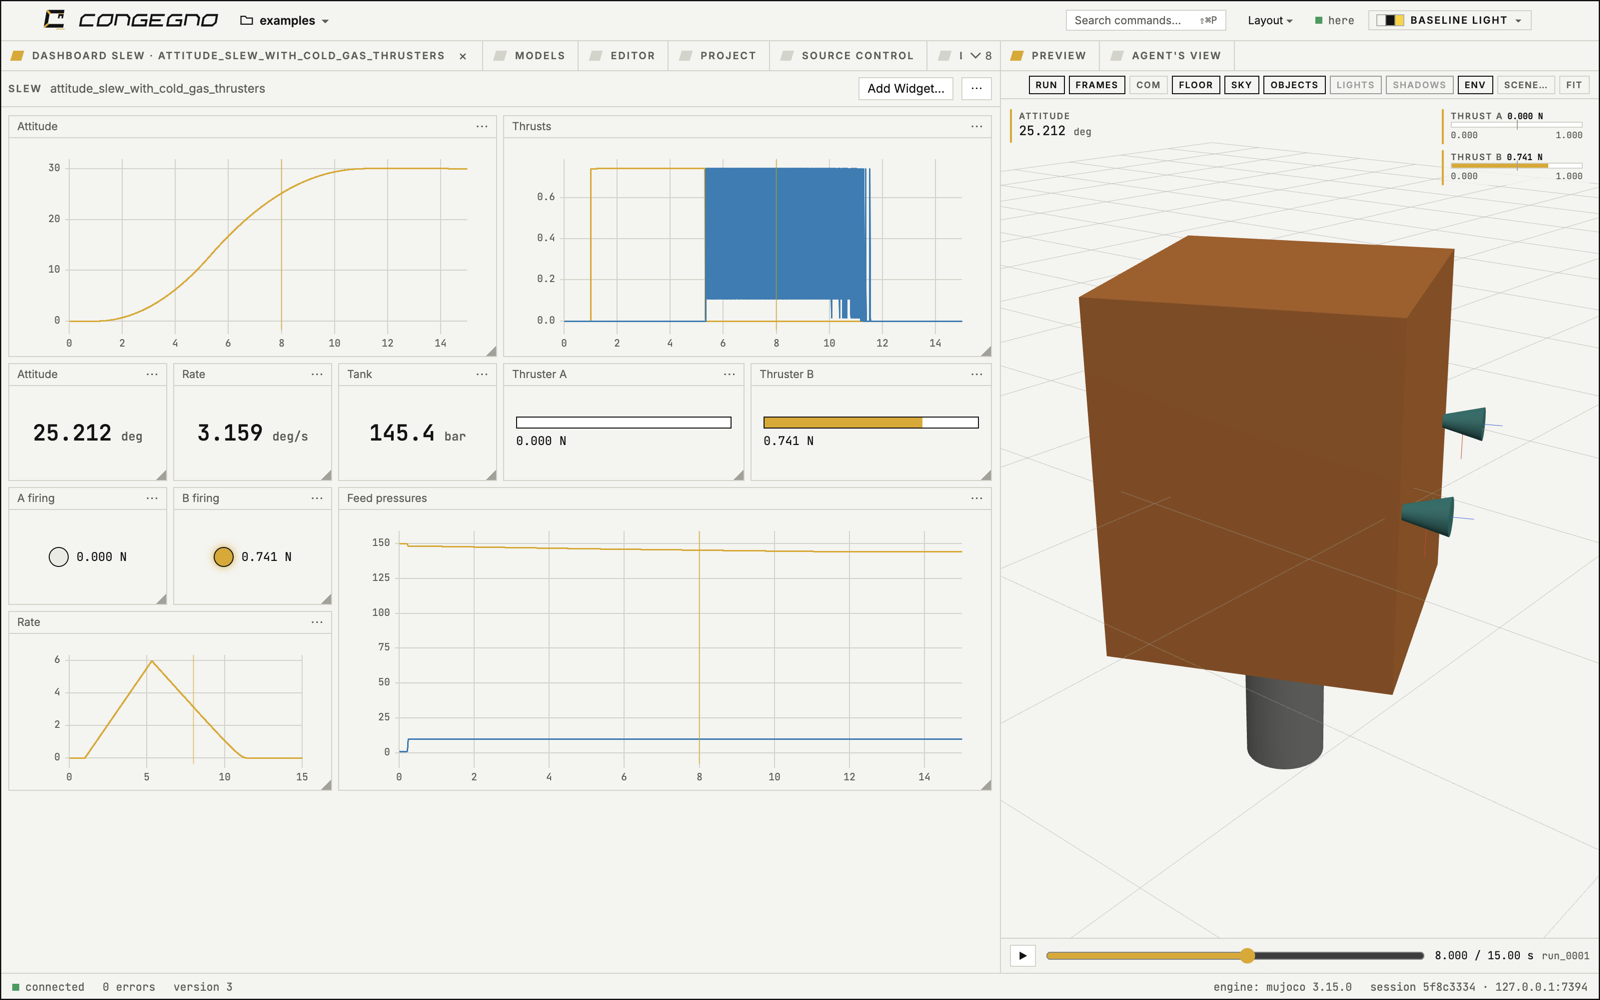
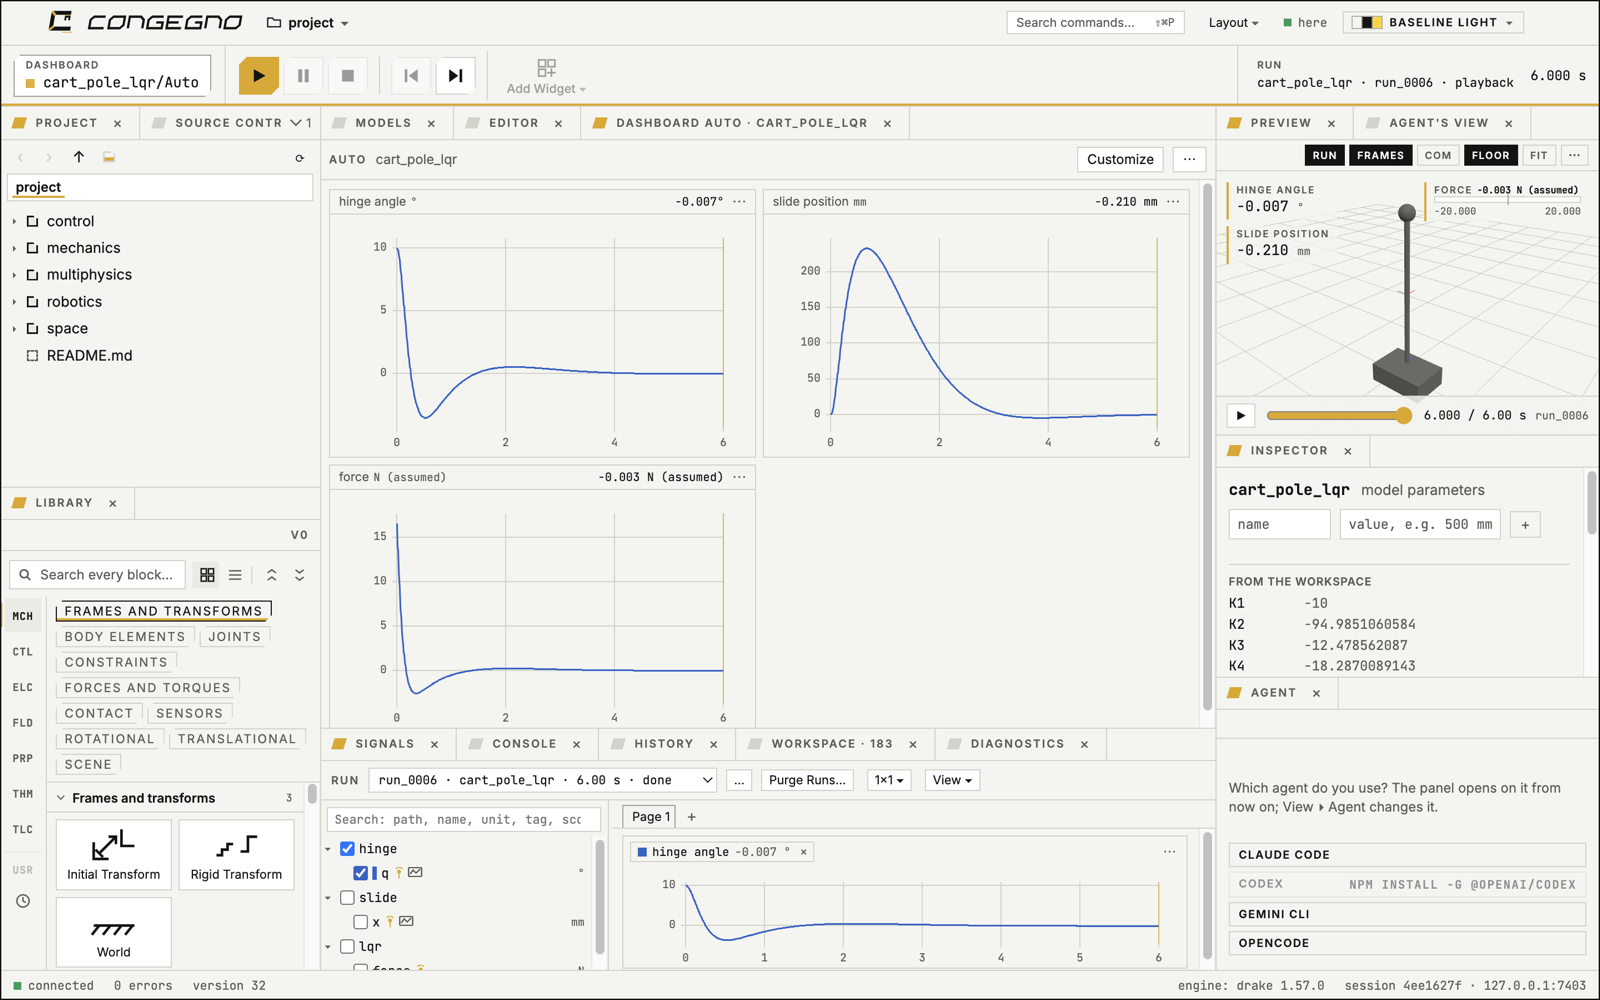
The public preview: the README for everyone (what Congegno is, real pictures of the app, platforms, requirements, the two-step macOS install and the AppImage, the licence in short, how to report a problem), and LICENSE.md the Congegno Preview Licence

diff --git a/README.md b/README.md
@@ -1,81 +1,135 @@
 # Congegno
 
-**Build the machine. Wire the control. Press Run.**
+**Many natures, one environment.**
 
-Congegno is a desktop IDE for simulating machines and their control, all drawn as blocks. Mechanisms, controllers,
-circuits, gas networks and heat run together: the mechanism on Drake or MuJoCo, every physical network compiled by
-OpenModelica, the control diagram compiled to native code.
+Congegno is a desktop application to draw and simulate machines together with their control. Block diagrams,
+multibody mechanics, physical networks and state machines live in one model, in one workspace, and run together.
 
-This repository holds Congegno's **downloads**, its **release notes** and its **issue reports**. The source code is
-not public.
+*Congegno* is Italian for "mechanism" (con-JEN-yo).
 
-Site: https://congegno.marunja.com
+![A pendulum's model, its 3D view and the Library](images/workspace.png)
 
-![The block diagram](images/canvas.png)
-
-## Download
-
-Get the latest build from [Releases](../../releases). Congegno is in pre-release: expect rough edges, and tell us
-about them.
-
-| System | File | Requirements |
-|---|---|---|
-| macOS, Apple Silicon | `Congegno-<version>-arm64.dmg` | macOS 15 or later |
-| macOS, Intel | `Congegno-<version>-x64.dmg` | macOS 13 or later; runs its back-end in a small Linux VM it carries (about 5 GB on disk) |
-| Linux x86_64 | `Congegno-<version>-linux-x86_64.AppImage` | glibc 2.34+ (Debian 12+, Ubuntu 22.04+, Fedora 35+), FUSE |
-
-Windows is planned.
-
-Each file has a `.sha256` beside it.
-
-### Install on macOS
-
-1. Open the `.dmg` and drag Congegno to Applications.
-2. The app is not notarized yet, so open Terminal and run `bash /Volumes/Congegno/install.sh`. It checks the app
-   came whole from the `.dmg`, removes the download mark and opens it. No password, no system setting changed.
-   Or: open Congegno, let macOS refuse it, then System Settings ▸ Privacy & Security ▸ Open Anyway.
-
-With the GitHub CLI, one command downloads, checks and installs:
-```
-gh release download --repo msavox/congegno-releases --pattern install_release.sh && bash install_release.sh
-```
-
-On an Intel Mac the first launch unpacks the back-end's Linux and starts it (about two and a half minutes); later
-launches take seconds.
-
-### Install on Linux
-
-```
-chmod +x Congegno-<version>-linux-x86_64.AppImage && ./Congegno-<version>-linux-x86_64.AppImage
-```
-Or with its desktop entry and file types:
-```
-gh release download --repo msavox/congegno-releases --pattern install_release_linux.sh && bash install_release_linux.sh
-```
+This repository holds Congegno's **downloads**, its **release notes** and its **issue reports**. Congegno is free to
+try under the [Congegno Preview Licence](LICENSE.md). It is not open source.
 
 ## What it does
 
-- **Multibody mechanics**: joints, bodies from shapes or CAD files, contact, flexible beams, deployment hinges,
-  releasable welds; observed from any frame.
-- **Control**: a Simulink-like block library, Python and C function blocks, zero crossings located exactly,
-  discrete and continuous rates, compiled to native code.
-- **Physical networks**: electrical, fluid, thermal, compiled by OpenModelica, coupled to the mechanism.
-- **SI in every number**: units are settings of the views, never hidden conversions.
-- **A workspace like MATLAB's**: scripts, a console, live Matplotlib figures, `cogita()` to run a model from Python.
-- **Results you can look at**: scopes, dashboards, a 3D view with overlays, video export.
-- **Agents**: an AI agent can drive Congegno through the same commands as the GUI.
+- **Block diagrams**: sources, sinks, math, continuous and discrete blocks, lookup tables, buses, subsystems,
+  several sample rates in one model, and Python Function and C Function blocks. The control diagram is compiled to
+  native code.
+- **Multibody mechanics as blocks**: frames, rigid transforms, solids from simple shapes or CAD files, joints,
+  forces, contact and flexible beams. You never declare a body: Congegno finds the bodies from how the frames are
+  connected.
+- **Multiphysics**: physical networks with conserving ports, from 1-D mechanics to electrical, thermal, gas and
+  propulsion, compiled by OpenModelica; a whole Modelica model, or equations typed in, as a block.
+- **State machines**: modes, sequences and fault handling drawn as states and transitions on a canvas of their own.
+- **Two engines**: the *Accurate* profile runs on Drake, the *Fast* profile on MuJoCo.
+- **Results you can look at**: a 3D view with playback and overlays, scopes, dashboards, Matplotlib figures, video
+  export.
+- **Scripting**: a Python console and an editor in the app; run a model from a script.
+- **Agents**: run your own AI coding agent in a terminal inside the app, acting on the models you see.
+- **Everything is a file**: a model is a plain text file you can read, compare and keep under Git.
 
-![Dashboards](images/dashboard.png)
-![The 3D view with overlays](images/overlays.png)
+![A cart-pole balanced by an LQR controller, with its scope](images/control.png)
+![A dashboard built from the model's probes](images/dashboard.png)
+![Two robot arms picking and placing, one of the examples](images/panda.png)
+
+The examples that come with Congegno (Help ▸ Examples…) are a good place to start.
+
+## Download
+
+Get the latest build from [Releases](../../releases). Congegno is a preview: expect rough edges, and tell us about
+them.
+
+| System | File |
+|---|---|
+| macOS, Apple Silicon | `Congegno-<version>-arm64.dmg` |
+| macOS, Intel | `Congegno-<version>-x64.dmg` |
+| Linux x86_64 | `Congegno-<version>-linux-x86_64.AppImage` |
+| Linux aarch64 | `Congegno-<version>-linux-aarch64.AppImage` (newer and less tested: tell us how it goes) |
+| Windows | coming: it will be added to this release once tested |
+
+Each file has a `.sha256` beside it, and each is complete: its own Python, the engines, OpenModelica with the Modelica
+Standard Library and a C compiler. Nothing is downloaded when Congegno first starts, and you need no Xcode, Homebrew
+or Python of your own.
+
+## System requirements
+
+- **macOS, Apple Silicon**: macOS 15 or later; about 2 GB of disk for the app.
+- **macOS, Intel**: macOS 13 or later. Simulations run in a small Linux system that the app carries and starts by
+  itself: the download is about 1.5 GB larger, and Linux takes more disk once prepared. The first launch of a new
+  version takes a minute or two to prepare it, and each launch about twenty seconds to start it. By default it gets
+  all the cores and half the memory, at least 4 GB; File ▸ Back-End Settings… changes that.
+- **Linux**: x86_64 or aarch64, glibc 2.34 or later (Debian 12, Ubuntu 22.04, Fedora 35 and later), and FUSE
+  (`fuse3`; most desktops have it). No root access is needed. The AppImage is one file of under 1 GB.
+
+## Install on macOS
+
+The app is not notarized by Apple yet, so macOS refuses to open a copy that comes straight from a downloaded `.dmg`:
+it says it cannot check the app for malicious software. On macOS 15 and later, right-click ▸ Open no longer gets
+around this. The `.dmg` window shows two steps that do:
+
+1. Open the `.dmg` and drag Congegno to Applications.
+2. Open Terminal and paste the line the window shows:
+
+   ```sh
+   bash /Volumes/Congegno/install.sh
+   ```
+
+   The script checks that Congegno in Applications is the `.dmg`'s app, whole and with its signature intact, removes
+   the download mark from `/Applications/Congegno.app` only, and opens it. It asks for no password and changes no
+   setting of macOS. If you skipped step 1, it says so. The line is the same for every release.
+
+Without Terminal: open Congegno, let macOS refuse it, then go to System Settings ▸ Privacy & Security and choose
+**Open Anyway**.
+
+With the GitHub CLI, one command downloads a release, checks its SHA-256 and installs it:
+
+```sh
+gh release download <tag> --repo msavox/congegno-releases --pattern install_release.sh && bash install_release.sh <tag>
+```
+
+## Install on Linux
+
+Make the AppImage executable and open it:
+
+```sh
+chmod +x Congegno-<version>-linux-x86_64.AppImage
+./Congegno-<version>-linux-x86_64.AppImage
+```
+
+Where FUSE is missing, `./Congegno-<version>-linux-x86_64.AppImage --appimage-extract-and-run` opens it.
+
+To install it with a desktop entry, icons and the file types of `.cgn` and `.cgnproj`, download
+`install_release_linux.sh` from the release, keep the AppImage's `.sha256` beside the AppImage, and run:
+
+```sh
+bash install_release_linux.sh ./Congegno-<version>-linux-x86_64.AppImage
+```
+
+It checks the checksum, copies the AppImage to `~/Applications/Congegno.AppImage` and adds Congegno to your
+applications.
+
+## First launch
+
+Congegno first shows its terms, the Congegno Preview Licence: **Accept** to go on, or **Quit**. It asks once, and
+again only when a new version of the terms comes. Then it opens the folder `~/Congegno` as its project.
+
+## The licence, in short
+
+Congegno is free to download, install and use to try it, evaluate it, learn and teach with it, and for personal
+projects. It is not for production or commercial use yet: final terms will come. There is no warranty. What you make
+with it is yours, and you may share it. Congegno collects no telemetry and needs no account, licence key or
+activation. It is not open source; it runs open-source engines and libraries (Drake, MuJoCo, OpenModelica and
+others) under their own licences, listed in Help ▸ About Congegno ▸ Licences.
+
+The full text is in [LICENSE.md](LICENSE.md), and it is the one that counts.
 
 ## Reporting a problem
 
-Open an [issue](../../issues/new/choose) with the version (Help ▸ About), your system, what you did and what
-happened. A small model that shows the problem helps most. Please do not attach anything you are not free to share.
-
-## Licence
-
-Congegno is proprietary software, free to use under the terms in [LICENSE.md](LICENSE.md). It uses software of
-others under their own licences, listed in the app's About ▸ Licences.
+In Congegno, Help ▸ Report a Problem… opens a new [issue](../../issues/new/choose) here. Say what you did, what you
+expected and what happened, and paste what Help ▸ About Congegno ▸ This Installation copies (version, system,
+engines). A small model that shows the problem helps most; the session log is `~/.congegno/logs/session.log`. Please
+attach only what you are free to share.
 
 © 2026 Matteo Savoia.

diff --git a/LICENSE.md b/LICENSE.md
@@ -1,25 +1,109 @@
-<!-- DRAFT, 2026-10-15: to be reviewed (ideally by a lawyer) before this repository is made public. Remove this line. -->
+# Congegno Preview Licence
 
-# Congegno pre-release licence
+Version 1 · 27 October 2026
 
 Copyright © 2026 Matteo Savoia. All rights reserved.
 
-This licence covers the pre-release builds of Congegno published in this repository (the "Software"). By installing
-or using the Software you accept it.
+This licence is an agreement between you and Matteo Savoia (the "author"), who makes Congegno. It covers the preview
+builds of the Congegno application, with their installers, examples and documentation (together, "Congegno"). By
+installing or using Congegno you accept this licence. If you do not accept it, do not install or use Congegno.
 
-1. **Use.** You may install and use the Software free of charge, on any number of your computers, for any purpose,
-   personal, educational, research or commercial.
-2. **Your work is yours.** Models, scripts, data and results you create with the Software belong to you. The
-   Software does not send them anywhere.
-3. **No redistribution.** You may not sell, rent, sublicense or redistribute the Software. Point others to this
-   repository instead.
-4. **No reverse engineering.** You may not decompile, disassemble or reverse engineer the Software, except where the
-   law allows it despite this term. Software of others included in it remains under its own licence, which takes
-   precedence for that software (see About ▸ Licences in the app).
-5. **Pre-release.** The Software is in development. It is provided "as is", without warranty of any kind, express or
-   implied, including fitness for a particular purpose. Check every result that matters by other means. To the extent
-   the law allows, the author is not liable for any damage arising from its use.
-6. **Changes.** Later versions may come under different terms, including paid ones. The terms of a build you
-   downloaded continue to apply to that build.
-7. **Feedback.** Reports and suggestions you send may be used to improve the Software, with no obligation to you.
-8. **Law.** This licence is governed by Italian law.
+## In short
+
+- Congegno is free to download, install and use to try it, evaluate it, learn with it and for personal projects.
+- It is not for production or commercial use yet. Final terms will come.
+- There is no warranty. Check every result that matters by other means.
+- What you make with Congegno is yours, and you may share it.
+- No telemetry, no account, no licence key, no copy protection.
+
+This summary is for convenience. The numbered terms below are the licence.
+
+## 1. What you may do
+
+You may, free of charge, download Congegno, install it on any number of computers you use, and use it to:
+
+- try and evaluate it, on your own or within your organisation, including on your own models;
+- learn and teach: courses, exercises, theses, and research you publish;
+- work on personal projects that you are not paid for.
+
+## 2. What you may not do during the preview
+
+"Production or commercial use" means using Congegno, or results made with it, in work you or your organisation are
+paid for, or in a product or service that is sold or offered to others. For example: designing or verifying a
+product for a customer or an employer, putting results made with Congegno in a paid deliverable, or running Congegno
+inside a product or service. Evaluating whether Congegno would serve such work is allowed (section 1).
+
+Until final terms say otherwise, you may not:
+
+- (a) use Congegno for production or commercial use;
+- (b) sell, rent, lend, sublicense, host for others or redistribute Congegno or its installers. Point others to the
+  official download page instead: https://github.com/msavox/congegno-releases;
+- (c) decompile, disassemble, reverse engineer or modify Congegno, except where and as far as the law allows it
+  despite this term. Reading and changing the code of library blocks, examples and your own models inside the
+  application, as the application lets you, is normal use;
+- (d) remove or change the copyright and licence notices in Congegno, its own or those of others.
+
+## 3. Your work
+
+The models, scripts, data and results you make with Congegno are yours. You may keep, publish and share them, and
+share pictures, videos and comparisons of Congegno at work. Section 2(a) still applies to them during the preview.
+
+You may copy and change the examples that come with Congegno to learn and to start your own models. Files of others
+that an example includes keep their own licence, which sits beside them.
+
+## 4. No telemetry, no copy protection
+
+Congegno collects no telemetry. It sends nothing about you, your computer or your work to the author or to anyone
+else. It needs no account, no licence key and no activation, and it contains no copy protection. It uses the network
+only when you ask it to: a link you open, an AI agent you start in its terminal, a Git remote you use.
+
+## 5. A preview
+
+Congegno is a preview: it is incomplete, it changes often, and it may have errors and give wrong results. The author
+may change or stop the preview at any time. The author may end this licence for the preview builds by announcing it
+on the official download page at least 30 days ahead; after that date you must stop using them. A new version of
+Congegno may come with new terms, which it will ask you to accept when it first starts.
+
+## 6. Final terms
+
+The author will publish final terms for Congegno later. They may differ from this licence.
+
+## 7. Software of others
+
+Congegno includes and runs open-source software of others, among them Drake, MuJoCo and OpenModelica, each under
+its own licence. Those licences are listed with their texts in the application (Help ▸ About Congegno ▸ Licences)
+and come with every copy. They govern that software, and nothing in this licence limits the rights they give you.
+Congegno itself is not open source.
+
+## 8. No warranty
+
+To the fullest extent the law allows, Congegno is provided "as is" and "as available", without warranty of any kind,
+express or implied, including merchantability, fitness for a particular purpose, accuracy of results and
+non-infringement. Do not rely on Congegno's results where an error could harm people, property or the environment.
+
+## 9. Limitation of liability
+
+Congegno is free. To the fullest extent the law allows, the author is not liable for any damage that comes from using
+Congegno or from being unable to use it, including loss of data, profit or business, and damage caused by wrong
+results. Nothing in this licence excludes or limits a liability that the law does not allow to be excluded or
+limited, such as liability for wilful misconduct or gross negligence, nor any right you have as a consumer under
+mandatory law.
+
+## 10. Feedback
+
+The author may use the reports and ideas you send to improve Congegno, with no obligation to you. Send only what you
+are free to share.
+
+## 11. Ending
+
+This licence ends by itself if you break it. Then stop using Congegno and delete your copies. Sections 3, 8, 9 and
+12 still apply after it ends.
+
+## 12. Law
+
+Italian law governs this licence, without its rules on conflicts of laws and without the United Nations Convention
+on Contracts for the International Sale of Goods. The courts of Italy decide any dispute, except where mandatory law
+lets a consumer go to the courts of their own country. If a term of this licence cannot be enforced, the others still
+apply. This licence is the whole agreement between you and the author about the preview builds of Congegno.
+
+Questions about this licence: https://github.com/msavox/congegno-releases/issues
